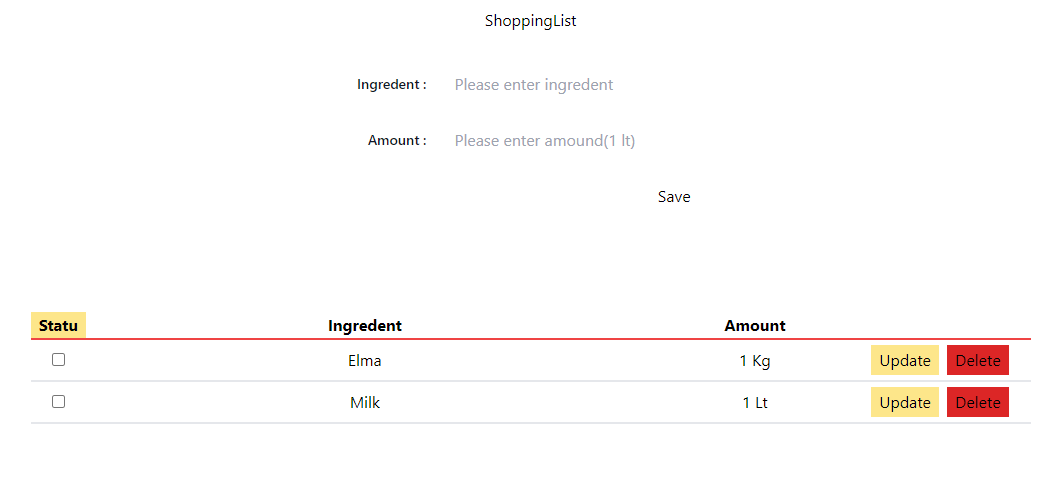
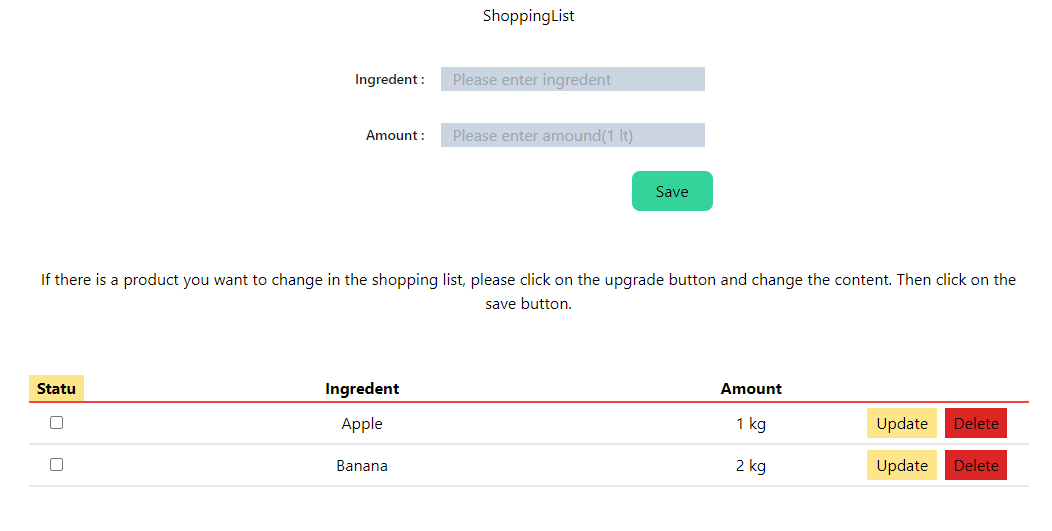
update function added

diff --git a/src/component/Shop/ShoppingListItem.jsx b/src/component/Shop/ShoppingListItem.jsx
@@ -1,7 +1,37 @@
 import PropTypes from "prop-types";
-
+import { useState } from "react";
+import ShoopingInput from "./ShoopingInput";
 const ShoppingListItem = ({ item, listItems, setListItems }) => {
   const { _id, checkStatus, ingredent, amount } = item;
+  const [updateRequest, setUpdateRequest] = useState(false);
+  const [updateRequestItem, setUpdateRequestItem] = useState(
+    ...listItems.filter((selectedItem) => selectedItem._id === _id)
+  );
+  function handleChange({ target: { name, value } }) {
+    setUpdateRequestItem({
+      ...updateRequestItem,
+      [name]: value,
+    });
+  }
+  function handleUpdateRequest() {
+    setUpdateRequest(true);
+    setUpdateRequestItem(
+      ...listItems.filter((selectedItem) => selectedItem._id === _id)
+    );
+  }
+  function handleSaveItem() {
+    setListItems(
+      listItems.map((item) => {
+        if (item._id === _id) {
+          item = updateRequestItem;
+          return item;
+        } else {
+          return item;
+        }
+      })
+    );
+    setUpdateRequest(false);
+  }
   function handleDeleteItem() {
     setListItems(listItems.filter((selectedItem) => selectedItem._id !== _id));
   }
@@ -15,12 +45,48 @@ const ShoppingListItem = ({ item, listItems, setListItems }) => {
           className="cursor-pointer"
         />
       </td>
-      <td className="max-w-[500px] truncate">{ingredent}</td>
-      <td>{amount}</td>
+      {updateRequest === false ? (
+        <>
+          <td className="max-w-[500px] truncate">{ingredent}</td>
+          <td className="max-w-[500px] truncate">{amount}</td>
+        </>
+      ) : (
+        <>
+          <td>
+            <ShoopingInput
+              key={1}
+              name={"ingredent"}
+              onChange={handleChange}
+              value={updateRequestItem.ingredent}
+            />
+          </td>
+          <td>
+            <ShoopingInput
+              key={2}
+              name={"amount"}
+              onChange={handleChange}
+              value={updateRequestItem.amount}
+            />
+          </td>
+        </>
+      )}
+
       <td className="flex item-center h-[40px]">
-        <button className="m-1 px-2 bg-amber-200" onClick={handleDeleteItem}>
-          Update
-        </button>
+        {updateRequest === false ? (
+          <button
+            className="w-[70px] m-1 px-2 bg-amber-200"
+            onClick={handleUpdateRequest}
+          >
+            Update
+          </button>
+        ) : (
+          <button
+            className="w-[70px] m-1 px-2 bg-amber-200"
+            onClick={handleSaveItem}
+          >
+            Save
+          </button>
+        )}
         <button className="m-1 px-2 bg-red-600" onClick={handleDeleteItem}>
           Delete
         </button>

diff --git a/src/component/Shop/ShoppingListWrapper.jsx b/src/component/Shop/ShoppingListWrapper.jsx
@@ -8,6 +8,11 @@ const ShoppingListWrapper = () => {
     <div className="shoppingListWrapper flex flex-col w-[1000px]  mx-auto mt-6">
       <h1 className="text-center mb-4">ShoppingList</h1>
       <ShoppingForm listItems={listItems} setListItems={setListItems} />
+      <blockquote className="text-center pb-5">
+        If there is a product you want to change in the shopping list, please
+        click on the upgrade button and change the content. Then click on the
+        save button.
+      </blockquote>
       <ShoppingList listItems={listItems} setListItems={setListItems} />
     </div>
   );

diff --git a/src/component/Shop/ShoopingInput.jsx b/src/component/Shop/ShoopingInput.jsx
@@ -1,0 +1,24 @@
+import PropTypes from "prop-types";
+
+const ShoopingInput = (props) => {
+  const { name, onChange, value } = props;
+  return (
+    <>
+      <input
+        type="text"
+        className="bg-transparent w-3/4 pl-3 hover:bg-sky-700 group-hover:bg-slate-300 focus:bg-red-300 border"
+        name={name}
+        onChange={onChange}
+        value={value}
+      />
+    </>
+  );
+};
+
+export default ShoopingInput;
+
+ShoopingInput.propTypes = {
+  name: PropTypes.string,
+  onChange: PropTypes.func,
+  value: PropTypes.string,
+};

diff --git a/src/component/Shop/ShoppingList.jsx b/src/component/Shop/ShoppingList.jsx
@@ -3,7 +3,6 @@ import ShoppingListItem from "./ShoppingListItem";
 
 const ShoppingList = (props) => {
   const { listItems, setListItems } = props;
-
   return (
     <>
       {" "}

diff --git a/README.md b/README.md
@@ -4,8 +4,13 @@ Follow these steps to run it : 1 - npm install == To download the necessary docu
 ![alt text](image-1.png)
 
 and if you want to delete item from list, only click delete
-
 ![alt text](image-2.png)
+
+If there is a product you want to change in the shopping list, please click on the upgrade button and change the content.
+![alt text](image-4.png)
+
+Then click on the save button.
+![alt text](image-5.png)
 
 # React + Vite
 
